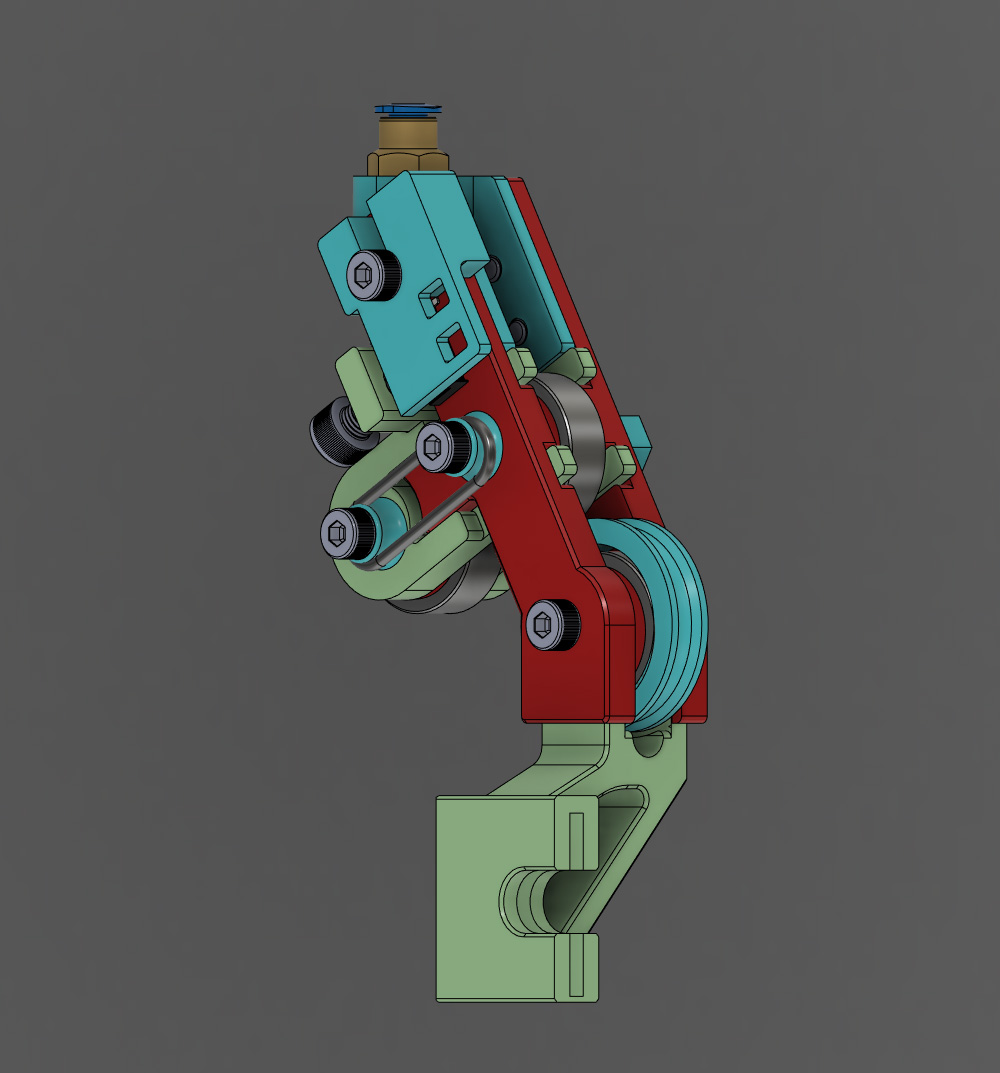
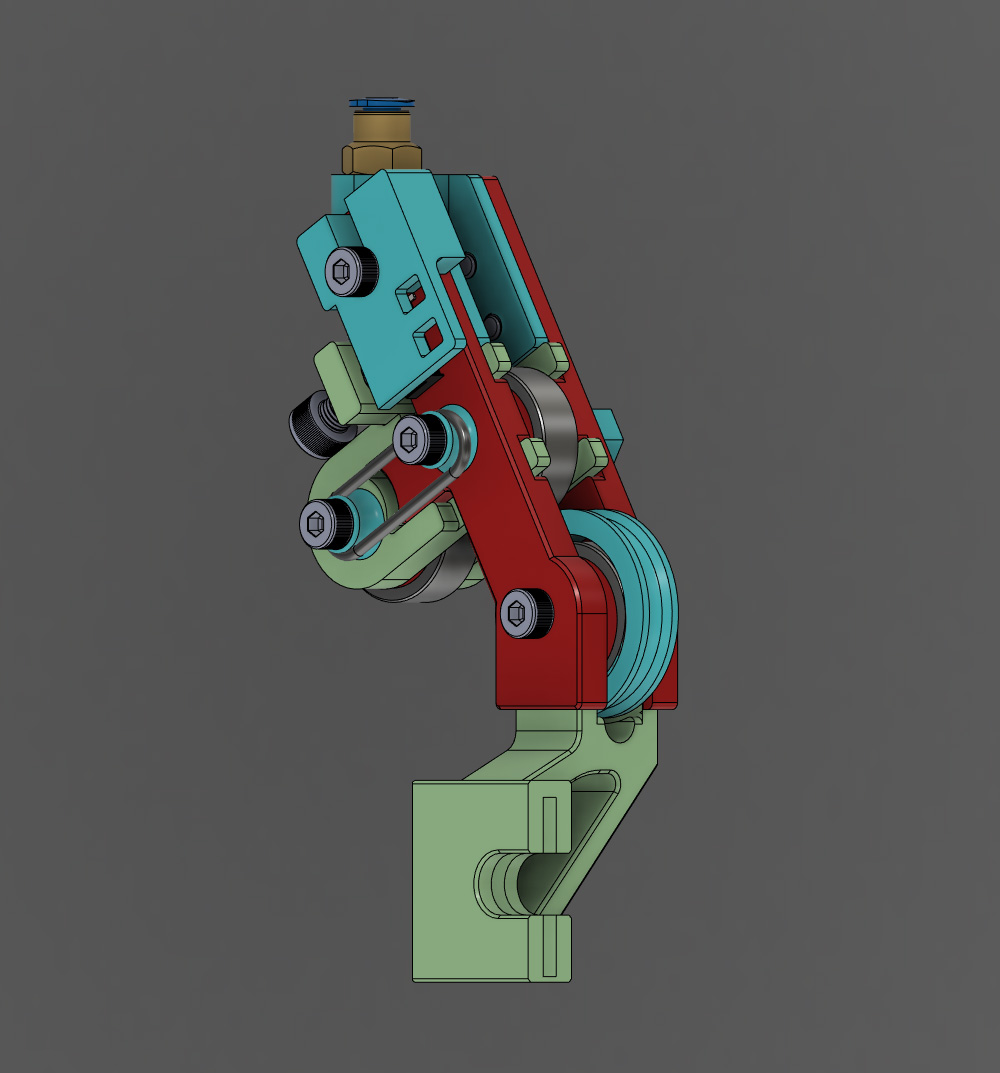
show extras

Changed region(s): [[0.279, 0.0923, 0.713, 0.9534]]

diff --git a/README.MD b/README.MD
@@ -4,30 +4,31 @@
 ### Parts
 * 2 - M4 x 30 screws
 * 2 - M4 x 6 screws
-* 1 - M4 x 16 screw1
-* 1 - M5 x 5-8 screws
-
-Screw lengths are not critical. Print spacers if yoou have some that are a bit too long.
-
+* 1 - M4 x 16 screw
+* 1 - M5 x 8 screw
 * 3 x 608 skateboard bearings.
 * 1 x Microswitch
-* Whatever wire and connectors you need to connect the microswitch to your controller board.
+* Whichever wire and connectors you need to connect the microswitch to your controller board.
 
 ### Optional Parts
 * M10 Pneumatic coupler if you use a section of PTFE tube for the filament guide.
 * PTFE (bowden) tube.
 
+STL/STEP files for a printable coupler and a guide that can be used instead of the threaded coupler mount are included.
+
 ---
-The switch I used came out of a computer mouse. It could be fairly simple to make a housing to fit other types of switches.
+The switch I used came out of a computer mouse. It should be fairly simple to make a housing to fit other types of switches.
 
-The coupler used is the kind that goes in the hotend. This size will let the TPFE tubing pass through. If you don't have one you can print this one [link](https://www.thingiverse.com/thing:1993384), but you'll need to drill or melt the hole so the tubing can pass through.
-
-Alternately, there is a simple guide that doesn't use a piece of tubing.
+The coupler used is the kind that goes in the hotend. This size will let the TPFE tubing pass through. If you don't have one you can print the included coupler STLs. Alternatively, there is a simple guide that doesn't use a piece of tubing.
 
 This design uses a modified [Ender 3 Filament Roller Guide](https://www.thingiverse.com/thing:3052488) to mount to the printer.
 
-Everything can be printed without supports. The switch housing mounting holes have a 0.2 mm layer blocking the holes. This allows for bridging when printing. The holes can be easily cleared after printing using something pointy.
+Everything can be printed without supports.
 
 ---
 ![image 1](images/image3.jpg)
+
+Extras
+---
+![image 1](images/image4.jpg)
 
